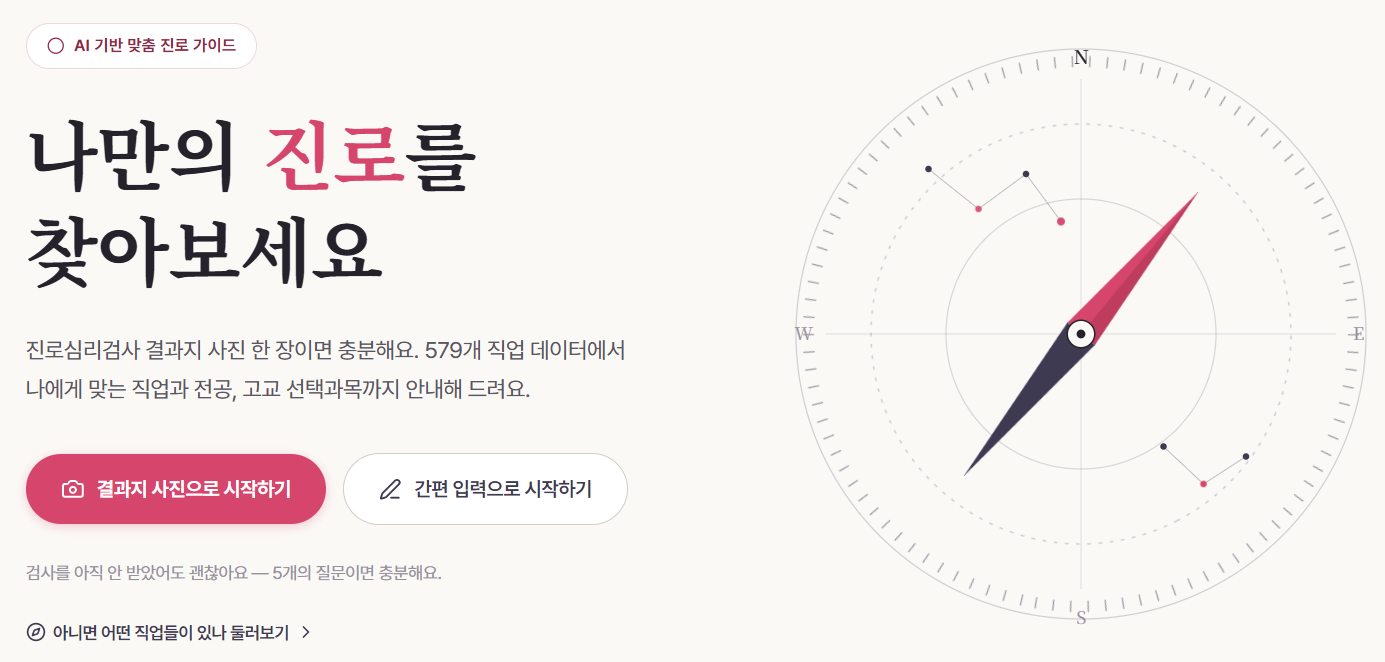
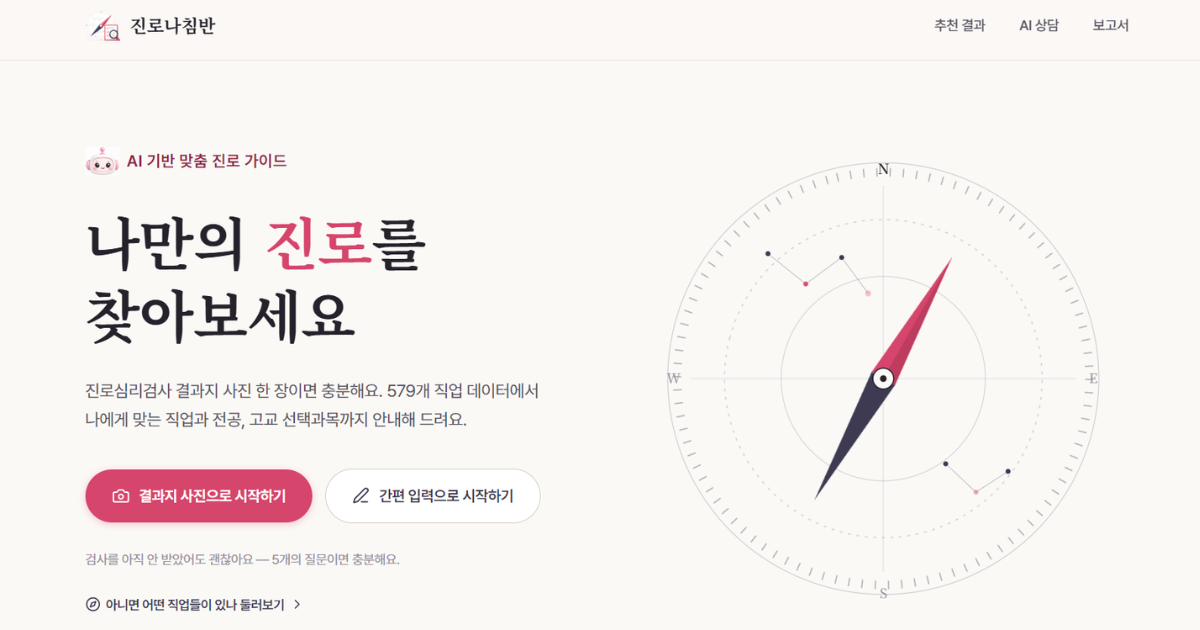
OG 메타데이터 잘리는 문제 해결

diff --git a/src/app/layout.tsx b/src/app/layout.tsx
@@ -27,7 +27,7 @@ export const metadata: Metadata = {
     siteName: "진로나침반",
     title,
     description,
-    images: [{ url: "/og.png", width: 1385, height: 662, alt: "진로나침반" }],
+    images: [{ url: "/og.png", width: 1200, height: 630, alt: "진로나침반" }],
   },
   twitter: {
     card: "summary_large_image",